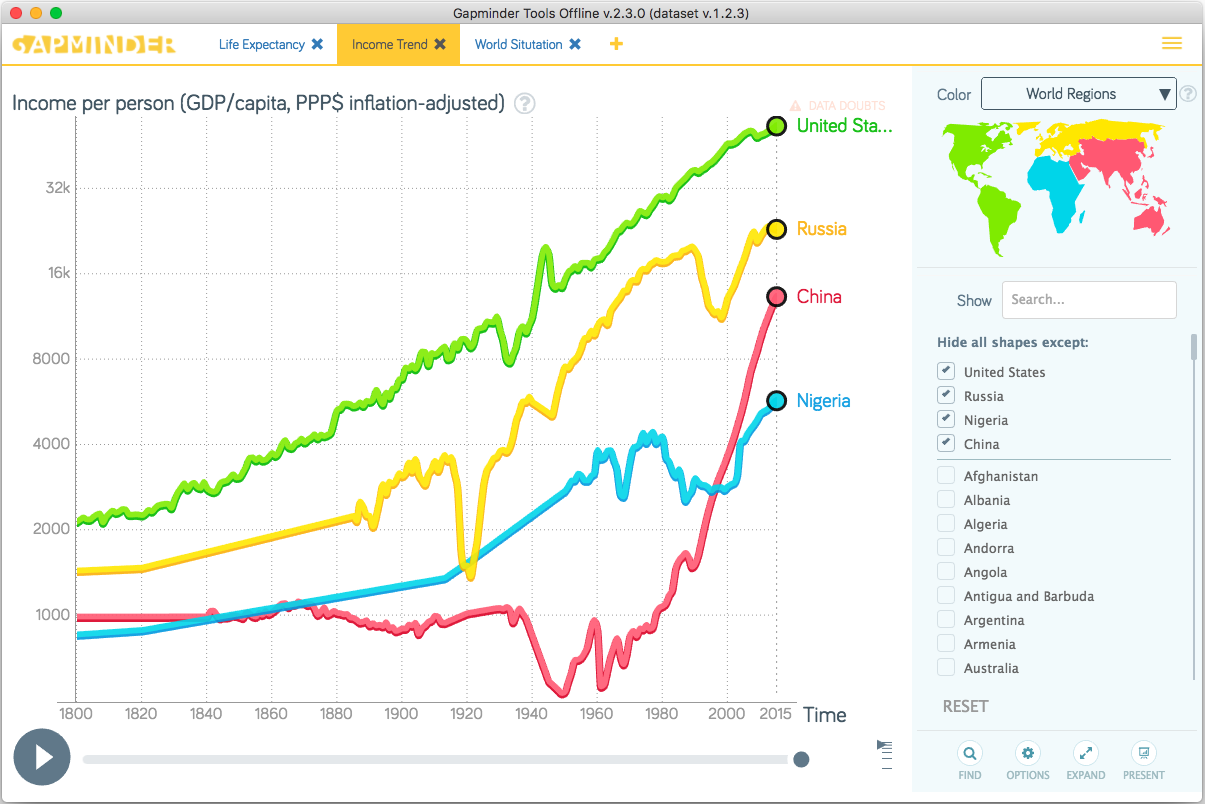
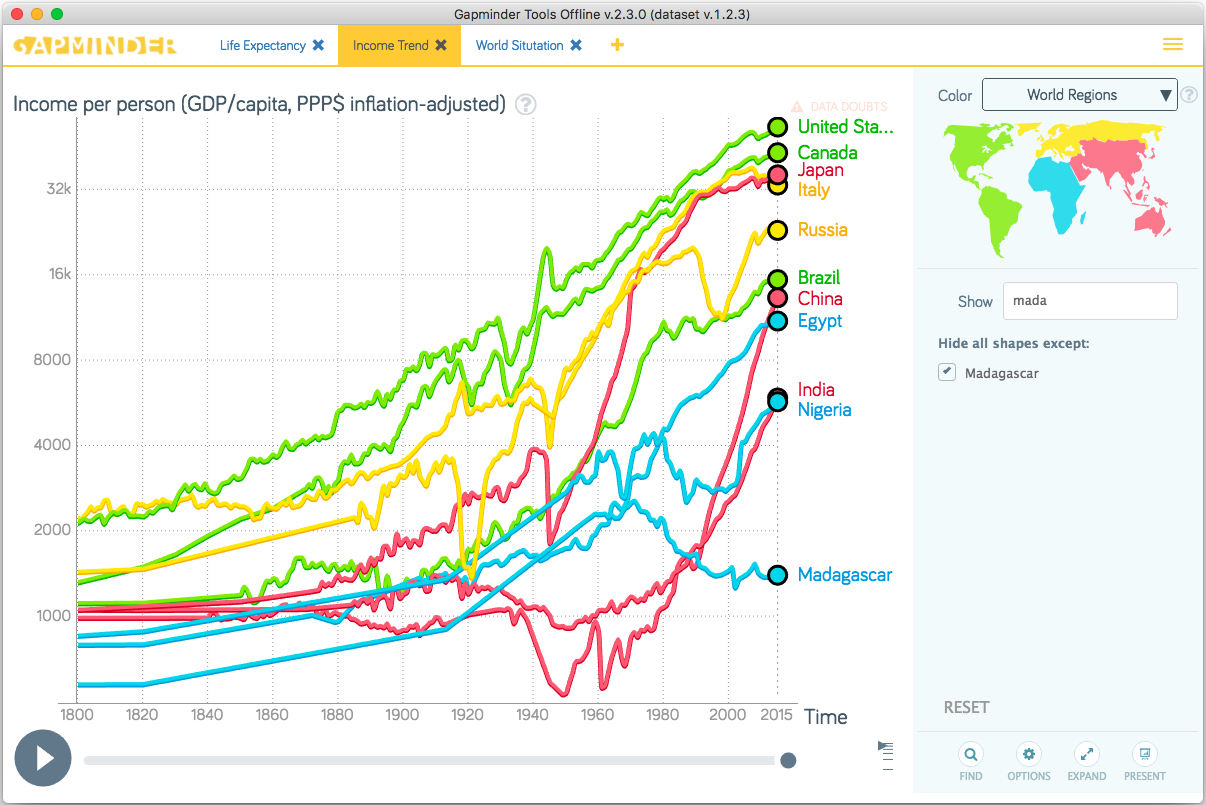
Findings, second question

diff --git a/05_findings.tex b/05_findings.tex
@@ -36,6 +36,17 @@ We can immediately notice groups of bubbles with different colors.
 
 \subsection{Income Trend}
 We can answer this question by using a chart of type ``lines''.
+The default visualization already shows the income per person for countries in different regions,
+we only add some countries to the visualized one to have a better overview of the global situation.
+The visualization is shown in \cref{fig:income-trend}.
+
+In general, income tends to grow in all regions in the world.
+Countries in europe, america and rich countries in asia had an almost constant growth from $1850$ to $2015$, with only some small drops around $1920$ and $1945$ (probably due to the World Wars).
+Countries in asia such as China and India did not have a significant growth until the second half of the $20^{th}$ century:
+after that moment, the growth is very fast, much faster than europe or america.
+Countries in africa show different situations:
+some of them are growing (eg. Egypt or Nigeria), others had a growth in the first half of the $20^{th}$ century, followed by a decline.
+The situation is quite complex and would require some more complex analysis which is out of the scope of this document.
 
 \begin{figure}[h]
 	\centering
